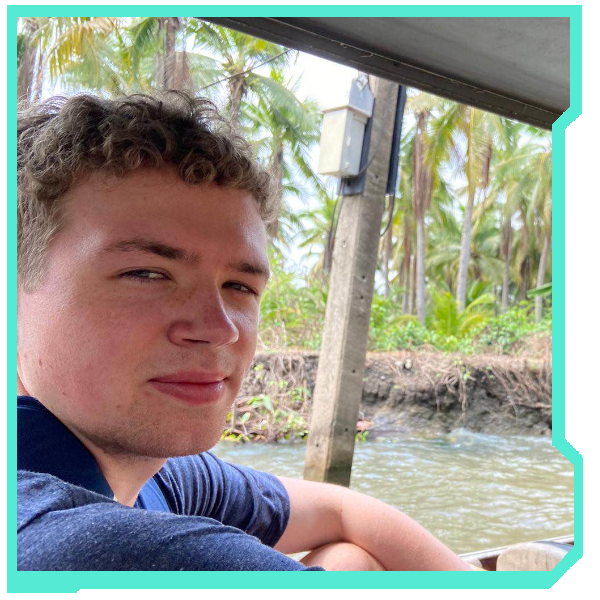
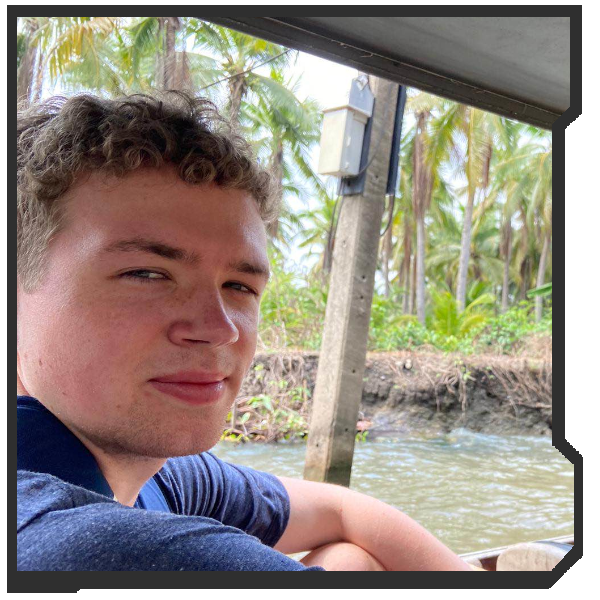
refactor: Change website to different color

Changed region(s): [[0.0, 0.0, 0.99, 0.99]]

diff --git a/frontend/src/pages/speedtest/Measure.tsx b/frontend/src/pages/speedtest/Measure.tsx
@@ -1,8 +1,22 @@
 import React, { useState, useCallback, useEffect } from "react";
 import CountUp from "react-countup";
 
-import FormButton from "../../components/FormButton";
 import PopupMessage from "../../components/PopupMessage";
+
+const MeasureButton = ({ title, onClick, disabled, text }) => {
+    return (
+        <div className="hover:bg-dark-gray bg-cream-white border-dark-gray group my-3 flex h-12 w-72 items-center justify-center border-2 p-3 text-center duration-700 hover:cursor-link hover:bg-opacity-75 hover:duration-0">
+            <button
+                title={title}
+                className="text-dark-gray group-hover:text-cream-white bg-transparent uppercase"
+                onClick={onClick}
+                disabled={disabled}
+            >
+                {text}
+            </button>
+        </div>
+    );
+};
 
 const Measure = () => {
     const [metrics, setMetrics] = useState({
@@ -146,12 +160,13 @@ const Measure = () => {
     };
 
     return (
-        <div className="flex h-screen min-h-[768px] w-screen items-center justify-center bg-cp-red bg-[radial-gradient(#55ead4,transparent_2px)] [background-size:32px_32px]">
-            <div className="relative flex max-h-screen flex-row items-center justify-center drop-shadow-2xl md:h-auto md:min-w-max md:border-4 md:border-cp-blue md:bg-cp-yellow md:px-10">
-                <div className="relative mx-10 my-7 flex h-full w-full max-w-xl flex-col items-center justify-center text-center text-lg text-cp-blue md:text-xl md:text-cp-red lg:px-0 xl:text-2xl">
+        <div className="bg-cream-white flex h-screen min-h-[768px] w-screen items-center justify-center bg-[radial-gradient(#060606,transparent_2px)] [background-size:32px_32px]">
+            <div className="md:border-dark-gray md:bg-cream-white relative flex max-h-screen flex-row items-center justify-center drop-shadow-2xl md:h-auto md:w-3/5 md:min-w-max md:border-4 md:px-10">
+                <div className="text-dark-gray md:text-dark-gray bg-cream-white mx-10 mb-3 mt-7 flex h-full max-w-xl flex-col items-center justify-center p-3 text-center text-lg">
+                    {" "}
                     <div className="flex flex-row justify-center space-x-10">
                         <div className="relative flex flex-col">
-                            <p>Ping</p>
+                            <strong>Ping</strong>
                             <div className="flex w-32 flex-row justify-center">
                                 <CountUp
                                     duration={5}
@@ -164,7 +179,7 @@ const Measure = () => {
                             </div>
                         </div>
                         <div className="relative flex flex-col">
-                            <p>Download</p>
+                            <strong>Download</strong>
                             <div className="flex w-32 flex-row justify-center">
                                 <CountUp
                                     duration={5}
@@ -177,7 +192,7 @@ const Measure = () => {
                             </div>
                         </div>
                         <div className="relative flex flex-col">
-                            <p>Upload</p>
+                            <strong>Upload</strong>
                             <div className="flex w-32 flex-row justify-center">
                                 <CountUp
                                     duration={5}
@@ -191,7 +206,7 @@ const Measure = () => {
                         </div>
                     </div>
                     <div className="mt-7 w-fit">
-                        <FormButton
+                        <MeasureButton
                             text={
                                 measuring
                                     ? "Measuring..."

diff --git a/frontend/src/pages/main/Skills.tsx b/frontend/src/pages/main/Skills.tsx
@@ -25,30 +25,28 @@ interface SkillBlockProps {
 
 const SkillBlock = ({ alt, src, text, title }: SkillBlockProps) => {
     return (
-        <div className="bg-green relative h-fit w-fit">
-            <div className="flex flex-row items-center justify-center border-2 border-cp-blue bg-cp-red p-2 text-cp-yellow md:w-36 md:border-transparent xl:relative xl:h-16 xl:w-52 xl:px-5">
+        <div className="relative h-fit w-fit">
+            <div className="bg-cream-white text-dark-gray flex flex-row items-center justify-center border-2 p-2 md:w-36">
                 <img
                     src={src}
-                    className="h-5 w-5 drop-shadow-2xl md:absolute md:left-2 xl:left-3 xl:h-10 xl:w-10"
+                    className="h-5 w-5 drop-shadow-2xl md:absolute md:left-2"
                     title={title}
                     alt={alt}
                 />
-                <p className="hidden text-lg md:flex xl:pl-5 xl:text-xl">
-                    {text}
-                </p>
+                <p className="hidden text-lg md:flex">{text}</p>
             </div>
-            <div className="absolute bottom-0 right-0 hidden h-5 w-5 translate-x-3 translate-y-3 rotate-45 bg-cp-yellow md:block lg:h-7 lg:w-7 lg:translate-x-5 lg:translate-y-5 xl:h-10 xl:w-10"></div>
+            <div className="bg-dark-gray absolute bottom-0 right-0 hidden h-6 w-6 translate-x-3 translate-y-3 rotate-45 md:block"></div>
         </div>
     );
 };
 
 const Skills: React.FC = () => {
     return (
-        <div className="flex h-screen min-h-[768px] w-screen items-center justify-center bg-cp-red bg-[radial-gradient(#55ead4,transparent_1px)] [background-size:32px_32px] md:bg-[radial-gradient(#55ead4,transparent_2px)]">
-            <div className="flex max-h-screen flex-row items-center justify-center drop-shadow-2xl md:h-auto md:w-3/5 md:min-w-[686px] md:border-4 md:border-cp-blue md:bg-cp-yellow md:px-10 md:pb-10 lg:min-w-[924px] xl:min-w-[1024px]">
-                <div className="mx-10 mt-7 flex h-full w-full max-w-xl flex-col items-center justify-center text-center text-lg text-cp-blue md:text-xl md:text-cp-red lg:px-0 xl:text-2xl">
+        <div className="bg-dark-gray flex h-screen min-h-[768px] w-screen items-center justify-center bg-[radial-gradient(#fcfbf4,transparent_2px)] [background-size:32px_32px]">
+            <div className="md:border-cream-white md:bg-dark-gray flex max-h-screen flex-row items-center justify-center drop-shadow-2xl md:h-auto md:w-3/5 md:min-w-max md:border-4 md:px-10 md:pb-10">
+                <div className="text-cream-white bg-dark-gray mx-10 mt-7 flex h-full w-full max-w-xl flex-col items-center justify-center pb-5 text-center text-lg md:p-0 lg:px-0">
                     {" "}
-                    <h1 className="mb-7 font-cyberpunk text-2xl shadow-cp-dark-blue text-shadow-sm md:shadow-cp-dark-red lg:text-3xl">
+                    <h1 className="shadow-light-black mb-7 font-cyberpunk text-3xl text-shadow-sm">
                         Skills
                     </h1>
                     <p className="mb-5">Alright, let's talk skills.</p>

diff --git a/frontend/src/components/LoginPopup.tsx b/frontend/src/components/LoginPopup.tsx
@@ -79,23 +79,23 @@ const LoginPopup: React.FC<LoginPopupProps> = ({ close, change }) => {
         const { username, password } = formData;
 
         if (!validateLogin(username, password)) {
-            showError("Invalid username or password.");
+            showError("Invalid username or password");
             return;
         }
 
         // Do the login here
         console.log("Check database entries now..");
-        showError("This feature is not implemented yet.");
+        showError("This feature is not implemented yet");
     }, [formData, showError]);
 
     return (
         <div className="fixed top-0 z-10 flex h-screen w-screen items-center justify-center bg-black bg-opacity-90">
-            <div className="relative flex h-fit w-full max-w-[512px] flex-col items-center justify-center border-4 border-cp-blue bg-cp-red px-3 text-cp-red">
+            <div className="bg-light-black relative flex h-fit w-full max-w-[512px] flex-col items-center justify-center border-4 px-3">
                 <div className="mb-16 mt-10 flex flex-col items-center justify-center">
-                    <h1 className="font-cyberpunk text-2xl text-cp-blue shadow-cp-dark-blue text-shadow-sm lg:text-3xl">
+                    <h1 className="text-cream-white shadow-light-gray font-cyberpunk text-2xl text-shadow-sm lg:text-3xl">
                         Dive deep
                     </h1>
-                    <h3 className="absolute top-20 flex w-full justify-center text-lg text-cp-blue">
+                    <h3 className="text-cream-white absolute top-20 flex w-full justify-center text-lg">
                         <span ref={ref}></span>
                     </h3>
                 </div>
@@ -104,7 +104,7 @@ const LoginPopup: React.FC<LoginPopupProps> = ({ close, change }) => {
                         id="username"
                         limit={16}
                         onBlur={() => {}}
-                        onChange={(e) => handleInputChange("username")}
+                        onChange={handleInputChange("username")}
                         onFocus={() => {}}
                         placeholder="Username"
                         value={formData.username}
@@ -113,7 +113,7 @@ const LoginPopup: React.FC<LoginPopupProps> = ({ close, change }) => {
                         id="password"
                         limit={72}
                         onBlur={() => {}}
-                        onChange={(e) => handleInputChange("password")}
+                        onChange={handleInputChange("password")}
                         onFocus={() => {}}
                         placeholder="Password"
                         value={formData.password}

diff --git a/frontend/src/pages/main/About.tsx b/frontend/src/pages/main/About.tsx
@@ -8,26 +8,23 @@ interface CustomLinkProps {
 }
 
 const CustomLink = ({ href, text }: CustomLinkProps) => (
-    <a
-        href={href}
-        className="text-cp-dark-blue hover:text-cp-blue md:text-cp-yellow md:hover:text-cp-dark-red"
-    >
+    <a href={href} className="text-dark-gray hover:text-dark-black underline">
         {text}
     </a>
 );
 
 const About = () => {
     return (
-        <div className="bg-cp-yellow flex h-screen min-h-[768px] w-screen items-center justify-center bg-[radial-gradient(#500014,transparent_1px)] [background-size:32px_32px]">
-            <div className="md:border-cp-blue md:bg-cp-red relative flex max-h-screen flex-row items-center justify-center drop-shadow-2xl md:h-auto md:w-3/5 md:min-w-max md:border-4 md:px-10">
-                <div className="text-cp-red md:text-cp-blue mx-10 mt-7 flex h-full w-full max-w-xl flex-col items-center justify-center text-center text-lg md:text-xl lg:px-0 xl:text-2xl">
+        <div className="bg-cream-white flex h-screen min-h-[768px] w-screen items-center justify-center bg-[radial-gradient(#060606,transparent_2px)] [background-size:32px_32px]">
+            <div className="md:border-dark-gray md:bg-cream-white relative flex max-h-screen flex-row items-center justify-center drop-shadow-2xl md:h-auto md:w-3/5 md:min-w-max md:border-4 md:px-10">
+                <div className="text-dark-gray md:text-dark-gray bg-cream-white mx-10 mt-7 flex h-full max-w-xl flex-col items-center justify-center p-3 text-center text-lg">
                     <img
                         className="absolute left-0 top-0 hidden -translate-x-32 -translate-y-4 drop-shadow-2xl lg:table lg:h-60 lg:w-60 lg:-translate-x-36"
                         src={call}
                         alt="Finn Luca Jensen"
                         title="That is me in Thailand on a small boat"
                     />
-                    <h1 className="font-cyberpunk shadow-cp-dark-red text-shadow-sm md:shadow-cp-blue mb-7 text-3xl">
+                    <h1 className="shadow-dark-black mb-7 font-cyberpunk text-3xl text-shadow-sm">
                         Who am I
                     </h1>
                     <p className="mb-10">Hey there, great to have you here!</p>

diff --git a/frontend/src/pages/main/Projects.tsx b/frontend/src/pages/main/Projects.tsx
@@ -13,7 +13,7 @@ interface ProjectBlockProps {
 
 const ProjectBlock = ({ alt, href, src, text, title }: ProjectBlockProps) => {
     return (
-        <div className="min mb-10 flex h-auto w-3/5 min-w-[296px] flex-row items-center justify-center border-cp-blue bg-black text-center text-cp-red shadow-cp-dark-red md:relative md:w-3/4 md:justify-between md:border-4 md:bg-cp-red md:text-right md:text-cp-blue md:shadow-cp-dark-blue xl:w-1/2">
+        <div className="md:border-dark-gray bg-cream-white text-dark-gray shadow-dark-black mb-10 flex h-auto w-3/5 min-w-[296px] flex-row items-center justify-center p-5 text-center drop-shadow-2xl md:relative md:w-3/4 md:max-w-2xl md:justify-between md:border-4 md:p-0 md:text-right">
             <a href={href}>
                 <div className="flex flex-row items-center md:mr-3">
                     <img
@@ -22,7 +22,7 @@ const ProjectBlock = ({ alt, href, src, text, title }: ProjectBlockProps) => {
                         alt={alt}
                     />
                     <div className="md:w-3/5">
-                        <h1 className="mb-7 font-cyberpunk text-2xl shadow-cp-dark-blue text-shadow-sm md:shadow-cp-dark-red">
+                        <h1 className="shadow-dark-black mb-7 font-cyberpunk text-2xl text-shadow-sm">
                             {title}
                         </h1>
                         <p>{text}</p>
@@ -35,7 +35,7 @@ const ProjectBlock = ({ alt, href, src, text, title }: ProjectBlockProps) => {
 
 const Projects: React.FC = () => {
     return (
-        <div className="flex h-screen min-h-[768px] w-screen flex-col items-center justify-center bg-cp-yellow bg-[radial-gradient(#500014,transparent_1px)] [background-size:32px_32px]">
+        <div className="bg-cream-white flex h-screen min-h-[768px] w-screen flex-col items-center justify-center bg-[radial-gradient(#060606,transparent_2px)] [background-size:32px_32px]">
             <ProjectBlock
                 href="https://github.com/daFinndus/beerpong"
                 title="Beerpong Tracker"

diff --git a/frontend/src/pages/main/Motivation.tsx b/frontend/src/pages/main/Motivation.tsx
@@ -1,0 +1,29 @@
+const Motivation = () => {
+    return (
+        <div className="bg-dark-gray flex h-screen min-h-[768px] w-screen items-center justify-center bg-[radial-gradient(#fcfbf4,transparent_2px)] [background-size:32px_32px]">
+            <div className="md:border-cream-white md:bg-dark-gray flex max-h-screen flex-row items-center justify-center drop-shadow-2xl md:h-auto md:w-3/5 md:min-w-max md:border-4 md:px-10 md:pb-10">
+                <div className="text-cream-white bg-dark-gray mx-10 mt-7 flex h-full w-full max-w-xl flex-col items-center justify-center pb-5 text-center text-lg md:p-0 lg:px-0">
+                    <h1 className="shadow-light-black mb-7 font-cyberpunk text-3xl text-shadow-sm">
+                        Motivations
+                    </h1>
+                    <p className="mb-5">
+                        I've created this page because I want to visualize my
+                        progress as a programmer. I began coding this page with
+                        React, Tailwind, and Node.js while having nearly no
+                        knowledge about them.
+                    </p>
+                    <p className="mb-5">
+                        I'm also not that familiar with cybersecurity. I know
+                        some basics, but nothing more than that. By implementing
+                        my knowledge into this website through adding different
+                        features or blog entries, I'll be able to see how much
+                        I've improved and I can present my current understanding
+                        of these topics.
+                    </p>
+                </div>
+            </div>
+        </div>
+    );
+};
+
+export default Motivation;

diff --git a/frontend/src/components/HeaderUniversal.tsx b/frontend/src/components/HeaderUniversal.tsx
@@ -8,17 +8,14 @@ import ButtonShort from "./ButtonShort";
 import burger from "../assets/icons/hamburger_icon.png";
 
 interface HeaderProps {
-    red: boolean;
     title: string;
 }
 
-const HeaderUniversal = ({ red, title }: HeaderProps) => {
+const HeaderUniversal = ({ title }: HeaderProps) => {
     const [list, setList] = useState(false);
 
     return (
-        <header
-            className={`relative flex h-40 w-full items-center justify-center p-4 ${red ? "bg-cp-red" : "bg-cp-yellow"}`}
-        >
+        <header className="bg-light-black text-cream-white relative flex h-40 w-full items-center justify-center p-4">
             <div className="absolute left-4 hidden flex-col items-center justify-center lg:flex">
                 <ButtonWide
                     onClick={() => setList(true)}
@@ -37,10 +34,10 @@ const HeaderUniversal = ({ red, title }: HeaderProps) => {
                     alt="Hamburger icon"
                 />
             </div>
-            <h1 className="font-cyberpunk text-lg font-bold text-cp-blue shadow-cp-dark-blue text-shadow-default md:text-3xl">
+            <h1 className="text-cream-white shadow-light-gray font-cyberpunk text-lg font-bold text-shadow-default md:text-3xl">
                 {title}
             </h1>
-            <div className="absolute right-8 flex flex-col items-center justify-center text-sm text-cp-dark-red hover:text-cp-blue md:text-2xl">
+            <div className="text-cream-white absolute right-8 flex flex-col items-center justify-center text-sm md:text-2xl">
                 <Clock />
             </div>
             {list && <PageList close={() => setList(false)} />}

diff --git a/frontend/src/components/PageList.tsx b/frontend/src/components/PageList.tsx
@@ -59,12 +59,12 @@ const PageList = ({ close }: SideBarProps) => {
     return (
         <>
             <div className="fixed top-0 z-10 flex h-screen w-screen items-center justify-center bg-black bg-opacity-90">
-                <div className="relative flex h-fit w-full max-w-[412px] flex-col justify-center border-4 border-cp-blue bg-cp-red px-3 text-cp-red">
+                <div className="border-cream-white bg-light-black relative flex h-fit w-full max-w-[412px] flex-col justify-center border-4 px-3">
                     <div className="mb-8 mt-10 flex flex-col items-center justify-center">
-                        <h1 className="font-cyberpunk text-2xl text-cp-blue shadow-cp-dark-blue text-shadow-sm lg:text-3xl">
+                        <h1 className="text-cream-white shadow-dark-gray font-cyberpunk text-2xl text-shadow-sm lg:text-3xl">
                             Check it out
                         </h1>
-                        <h3 className="absolute top-20 text-lg text-cp-blue">
+                        <h3 className="text-cream-white absolute top-20 text-lg">
                             <span ref={ref}></span>
                         </h3>
                         <div className="mt-16 flex w-full flex-col items-center gap-1">

diff --git a/frontend/src/pages/main/Header.tsx b/frontend/src/pages/main/Header.tsx
@@ -25,7 +25,7 @@ const Header = () => {
     }, []);
 
     return (
-        <header className="relative flex h-40 w-full items-center justify-center bg-cp-red p-4">
+        <header className="bg-light-black text-cream-white relative flex h-40 w-full items-center justify-center p-4">
             <div className="absolute left-4 hidden flex-col items-center justify-center lg:flex">
                 <ButtonWide
                     onClick={() =>
@@ -68,10 +68,10 @@ const Header = () => {
                     alt="Hamburger icon"
                 />
             </div>
-            <h1 className="font-cyberpunk text-lg font-bold text-cp-blue shadow-cp-dark-blue text-shadow-default md:text-3xl">
+            <h1 className="shadow-light-gray font-cyberpunk text-lg font-bold text-shadow-sm md:text-3xl">
                 daFinndus'
             </h1>
-            <div className="absolute right-8 flex flex-col items-center justify-center text-sm text-cp-dark-red hover:text-cp-blue md:text-2xl">
+            <div className="absolute right-8 flex flex-col items-center justify-center text-sm md:text-2xl">
                 <Clock />
             </div>
             {list && <PageList close={() => setList(false)} />}

diff --git a/frontend/src/components/RegisterPopup.tsx b/frontend/src/components/RegisterPopup.tsx
@@ -100,12 +100,12 @@ const RegisterPopup = ({ close, change }: RegisterPopupProps) => {
 
     return (
         <div className="fixed top-0 z-10 flex h-screen w-screen items-center justify-center bg-black bg-opacity-90">
-            <div className="relative flex h-fit w-full max-w-[512px] flex-col items-center justify-center border-4 border-cp-blue bg-cp-red px-3 text-cp-red">
+            <div className="bg-light-black relative flex h-fit w-full max-w-[512px] flex-col items-center justify-center border-4 px-3">
                 <div className="mb-16 mt-10 flex items-center justify-center">
-                    <h1 className="font-cyberpunk text-2xl text-cp-blue shadow-cp-dark-blue text-shadow-sm lg:text-3xl">
+                    <h1 className="text-cream-white shadow-light-gray font-cyberpunk text-2xl text-shadow-sm lg:text-3xl">
                         Hola
                     </h1>
-                    <h3 className="absolute top-20 text-lg text-cp-blue">
+                    <h3 className="text-cream-white absolute top-20 text-lg">
                         <span ref={ref}></span>
                     </h3>
                 </div>

diff --git a/frontend/src/components/InputField.tsx b/frontend/src/components/InputField.tsx
@@ -27,7 +27,7 @@ const InputField = ({
     };
 
     return (
-        <div className="relative flex h-12 w-full flex-row items-center border-2 border-cp-blue bg-cp-yellow pl-3 text-lg text-cp-red">
+        <div className="border-cream-white bg-light-black text-cream-white relative flex h-12 w-full flex-row items-center border-2 pl-3 text-lg">
             <input
                 id={id}
                 value={value}
@@ -36,9 +36,9 @@ const InputField = ({
                 onBlur={onBlur}
                 placeholder={placeholder}
                 maxLength={limit}
-                className="mr-10 w-full bg-transparent placeholder-cp-dark-red placeholder-opacity-75 focus:outline-none"
+                className="placeholder-cream-white mr-10 w-full bg-transparent placeholder-opacity-75 focus:outline-none"
             />
-            <p className="absolute right-2 text-cp-dark-red text-opacity-75">
+            <p className="text-cream-white absolute right-2 text-opacity-75">
                 {remaining}
             </p>
         </div>

diff --git a/frontend/src/components/ButtonWide.tsx b/frontend/src/components/ButtonWide.tsx
@@ -10,11 +10,11 @@ interface ButtonWideProps {
 
 const ButtonWide = ({ alt, onClick, src, text, title }: ButtonWideProps) => {
     return (
-        <div className="group m-1 flex h-12 w-80 cursor-link items-center justify-start border-2 border-transparent p-3 duration-700 hover:border-cp-blue hover:bg-cp-blue hover:bg-opacity-25 hover:duration-0">
+        <div className="hover:border-cream-white hover:bg-cream-white group m-1 flex h-12 w-80 cursor-link items-center justify-start border-2 border-transparent p-3 duration-700 hover:bg-opacity-25 hover:duration-0">
             <button
                 title={title}
                 aria-label={title}
-                className="w-full bg-transparent text-left uppercase text-cp-dark-red focus:outline-none group-hover:text-cp-blue"
+                className="text-cream-white group-hover:text-cream-white w-full bg-transparent text-left uppercase focus:outline-none"
                 onClick={onClick}
             >
                 {text}
